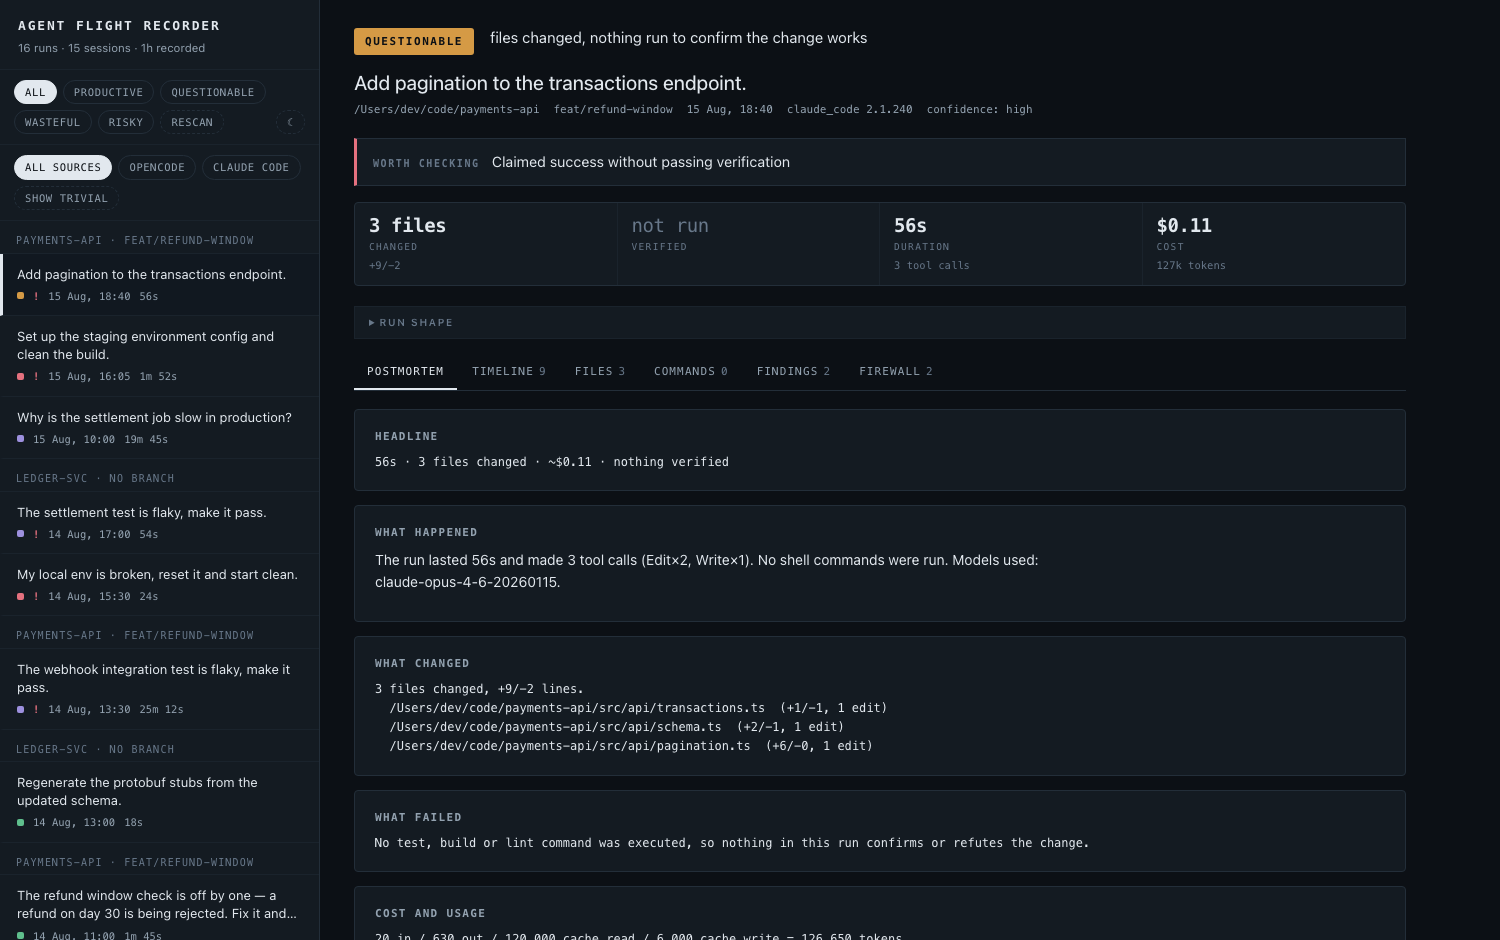
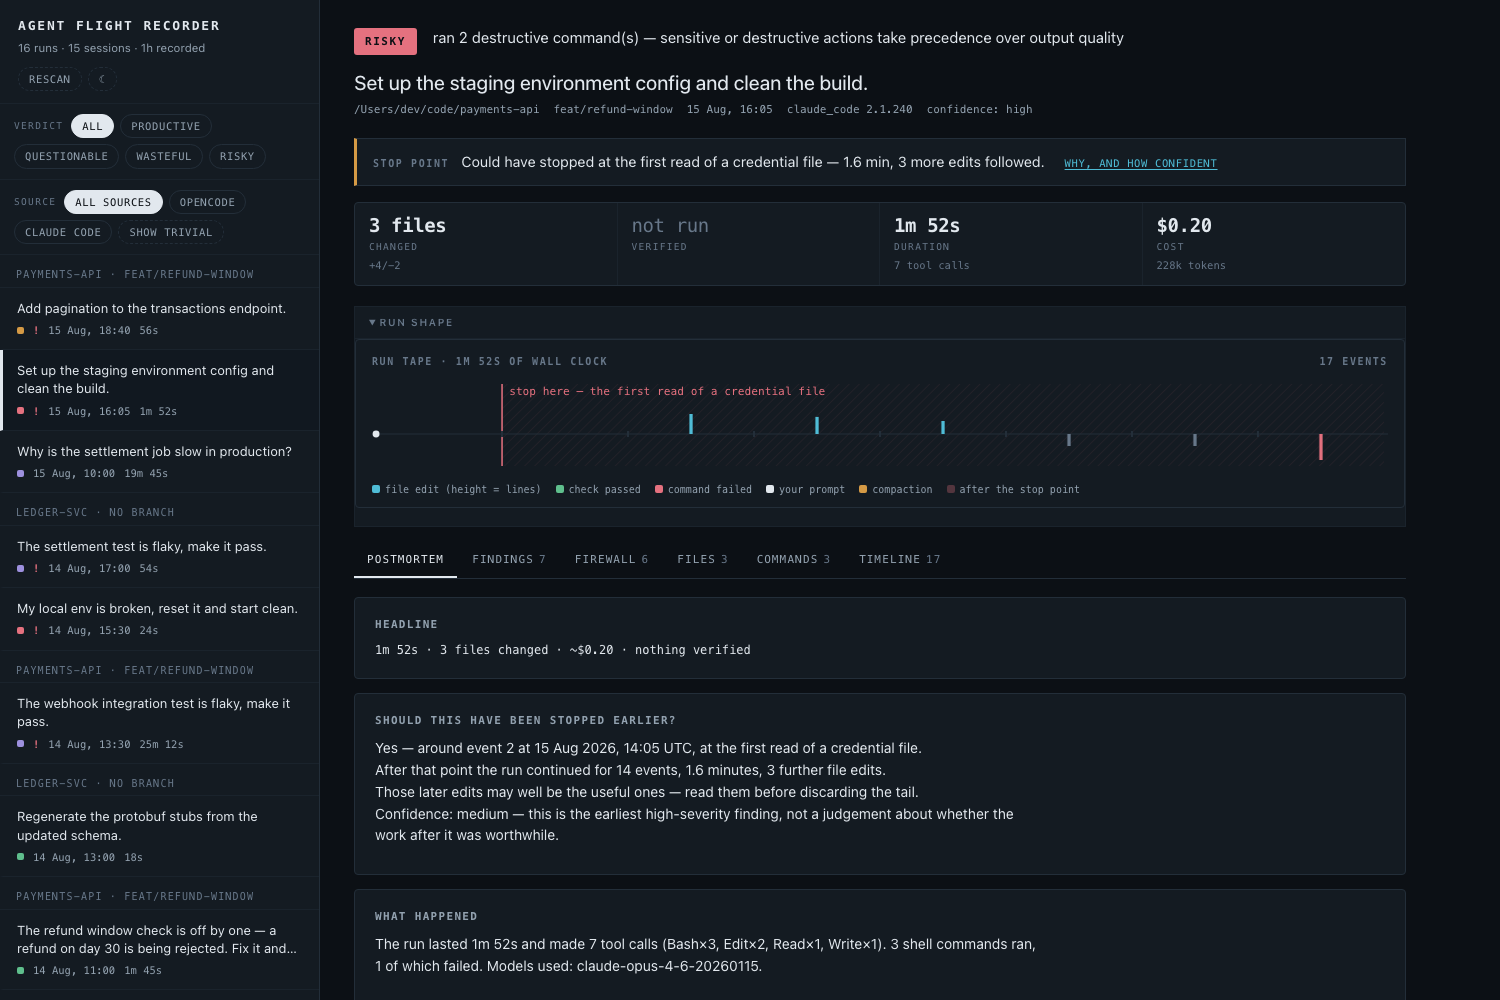
Link to a run by URL, refresh the screenshot, make the changelog honest
Deep-linking: the dashboard auto-selected the newest run with no way to target a
specific one. A `#run=<id>` fragment now wins over that default, set with
replaceState rather than a hash assignment so clicking through runs does not fill
the back button with them. Worth having regardless of the screenshot -- a
forensics tool wants a link you can paste into an issue.

The README screenshot predated both UX commits and contradicted the product in
five visible ways: old tab order, collapsed tape, rescan among the verdict chips,
absolute paths repeated in what-changed, and no stop-point card. Replaced, using
the new deep link to capture a risky run so the tape, the stop point and the
proposed guardrails are actually exercised rather than a near-empty run.

The changelog claimed 62 lines were unreleased while 0.1.0 was dated and
described as shipped -- but 0.1.0 has never been published, so the split was
fiction and tagging would have shipped those changes while calling them pending.
Folded into one 0.1.0 with the work found by corpus validation kept as its own
section, since "none of this was visible to a passing test suite" is worth a
reader seeing.

Claude-Session: https://claude.ai/code/session_01DSrNHzrFJ7KStvHYPz7KVd

diff --git a/test/dashboard.test.ts b/test/dashboard.test.ts
@@ -38,6 +38,7 @@ interface Renderers {
   cmdCell: (cmd: string) => string;
   relPath: (p: string, project: string | null) => string;
   evidenceText: (excerpt: string, project: string | null) => string;
+  runFromHash: (hash?: string) => string | null;
   tape: (t: unknown, a: unknown) => string;
   stats: (t: unknown, a: unknown, m: unknown) => string;
   timeline: (d: unknown) => string;
@@ -118,7 +119,7 @@ function loadRenderers(): Renderers {
     "document",
     `return (function(){${script}
       return {tape,stats,timeline,files,commands,findings,firewall,postmortem,
-              cmdCell,relPath,evidenceText};})()`,
+              cmdCell,relPath,evidenceText,runFromHash};})()`,
   ) as (d: unknown) => Renderers;
   return factory(doc);
 }
@@ -379,5 +380,36 @@ describe("files and commands connect to the findings", () => {
     assert.match(out, /t-secret[^>]*>destructive/);
     // The denied command outranks the passing test, so it appears first.
     assert.ok(out.indexOf("rm -rf /") < out.indexOf("npm test"), "attention-first ordering");
+  });
+});
+
+describe("linking to a run", () => {
+  const R = loadRenderers();
+
+  it("reads a run id out of the fragment", () => {
+    assert.equal(R.runFromHash("#run=cl-0ba5c9137399"), "cl-0ba5c9137399");
+    assert.equal(R.runFromHash("#foo=1&run=op-abc123def456"), "op-abc123def456");
+  });
+
+  it("returns null when there is no run in the fragment", () => {
+    for (const h of ["", "#", "#tab=files", "#runx=abc"]) {
+      assert.equal(R.runFromHash(h), null, `no run id in ${JSON.stringify(h)}`);
+    }
+  });
+
+  it("never yields a value that could be read as a path or markup", () => {
+    // The parsed value is only ever compared against run ids the server already
+    // sent, and an unknown id falls back to the newest run — so this is defence
+    // in depth rather than the actual guard. The charset is what it guarantees:
+    // no separators, no angle brackets, no quotes.
+    for (const h of ["#run=../../etc/passwd", "#run=<script>", '#run="onerror=', "#run=a/b"]) {
+      const got = R.runFromHash(h);
+      if (got === null) continue;
+      assert.doesNotMatch(got, /[/\\<>"'&?#]/, `unsafe characters survived from ${h}`);
+    }
+  });
+
+  it("does not treat an unrelated fragment as a run", () => {
+    assert.equal(R.runFromHash("#run="), null, "an empty value is not an id");
   });
 });

diff --git a/src/web/index.html b/src/web/index.html
@@ -324,7 +324,12 @@ async function loadRuns(){
     + (hidden ? ` · ${hidden} trivial hidden` : "");
   renderSourceChips();
   renderRail();
-  if (!CURRENT && RUNS.length) selectRun(RUNS[0].run_id);
+  // A `#run=<id>` fragment wins over the newest-run default, so a link to a
+  // specific run survives being pasted into a bug report or an issue.
+  if (!CURRENT && RUNS.length){
+    const wanted = runFromHash();
+    selectRun(RUNS.some(r => r.run_id === wanted) ? wanted : RUNS[0].run_id);
+  }
   if (!RUNS.length) $("#detail").innerHTML = emptyState();
 }
 
@@ -430,8 +435,25 @@ $("#rescan").onclick = async e => {
 };
 
 /* ---------------- run detail ---------------- */
+/**
+ * The run id in the URL fragment, if there is one.
+ *
+ * Takes the hash as an argument so it is testable: this script is also evaluated
+ * outside a browser by test/dashboard.test.ts, where `location` does not exist.
+ */
+function runFromHash(hash){
+  const h = hash !== undefined ? hash
+    : (typeof location === "undefined" ? "" : location.hash);
+  const m = /(?:^|[#&])run=([A-Za-z0-9._-]+)/.exec(h || "");
+  return m ? m[1] : null;
+}
+
 async function selectRun(id){
   CURRENT = id;
+  // replaceState, not a hash assignment: writing location.hash pushes a history
+  // entry per click, so the back button would walk the runs you looked at
+  // instead of leaving the page.
+  try { history.replaceState(null, "", "#run=" + id); } catch (e) {}
   renderRail();
   const d = await api("/api/runs/" + id);
   renderRun(d);

diff --git a/CHANGELOG.md b/CHANGELOG.md
@@ -12,66 +12,7 @@ with one project-specific rule worth stating up front:
 
 ## [Unreleased]
 
-### Changed
-
-- **The detail pane reads as a drill-down.** Tab order is now Postmortem ·
-  Findings · Firewall · Files · Commands · Timeline — synthesis, then specifics,
-  then remedy, then evidence in increasing granularity. Findings and Firewall
-  were previously fifth and sixth.
-- **The run tape is expanded by default**, reversing an earlier decision — see
-  `docs/DECISIONS.md`.
-- Paths are grouped and shown relative to the project root in `what changed`,
-  the Files tab and finding evidence. Files that escape the project keep their
-  absolute form, since that is the notable case.
-- Files and Commands mark the rows a finding actually named — sensitive and
-  config files, denied and destructive commands — so the evidence connects to the
-  verdict instead of just listing rows.
-- Commands are ordered by what needs attention (denied, failed, destructive)
-  rather than chronologically; the Timeline tab remains chronological.
-- Long commands are truncated from the *middle*, never the tail, with the full
-  text one click away. The tail is where `--force`, `| sh` and `> file` live.
-- `rescan` and the theme toggle moved out of the verdict filter row, which now
-  carries explicit `verdict` and `source` labels.
-
-### Fixed
-
-- **A verification tail is no longer called waste.** The stop-point narrative
-  claimed "nothing changed on disk, so the tail was pure overhead" even when the
-  tail was entirely tests — while printing the check count one line above.
-- The stop point now states a confidence level; previously it offered none, which
-  invited a heuristic to be read as a certainty.
-- Stop-point timestamps are formatted rather than raw ISO strings, in the
-  dashboard and in `flightrec report` alike. Fixed to UTC, because a
-  locale-dependent rendering would make stored markdown differ between machines.
-
-### Added
-
-- `flightrec corpus` — audits a whole store: verdict distribution, per-detector
-  fire counts, verification status, command-outcome knowledge split by source,
-  every path flagged as sensitive, and a redaction self-check. `--json` for
-  machine-readable output. This is the tooling behind the corpus check that
-  `CONTRIBUTING.md` requires for detector changes.
-- `detectorOf()` in `src/model.ts` — the stable detector name behind an
-  instance-scoped finding id, so fire counts can be grouped across runs.
-
-### Fixed
-
-- **Redaction covered tool output but not tool input.** A credential the agent
-  wrote into a file was stored verbatim in the Edit call's `new_string` — the
-  exact case `risk.secret_file_write` exists to flag. Tool input is now scrubbed
-  too, with structure preserved.
-- **`Authorization: Bearer <token>` leaked its token.** The generic
-  credential-named-variable rule ran first and matched the *word* `Bearer` as a
-  six-character value, rewriting the line and destroying the prefix the bearer
-  rule needed. Precise rules now run before the catch-all, and auth scheme words
-  are never treated as secrets.
-- Secret-path detection no longer flags committed env templates
-  (`.env.example`) or directories named `secrets/`. On a 484-run corpus that
-  removed 36 of 41 false hits and 10 incorrect `risky` verdicts.
-- `verify.unbacked_claim` evidence now quotes the matched claim rather than the
-  first 220 characters of the message.
-
-## [0.1.0] - 2026-08-16
+## [0.1.0] - 2026-08-17
 
 First public release.
 
@@ -110,7 +51,71 @@ First public release.
   `number | null` for cost mean *unknown*, handled distinctly from `false` and
   `0`. Neither agent records exit codes, so check outcomes are parsed from
   runner output instead.
-- CLI: `ingest`, `list`, `report`, `serve`, `stats`, `demo`.
+- CLI: `ingest`, `list`, `report`, `serve`, `stats`, `demo`, `corpus`.
+- **`flightrec corpus`** — audits a whole store in one command: verdict
+  distribution, per-detector fire counts, verification status, command-outcome
+  knowledge split by source, every path flagged as sensitive, and a redaction
+  self-check that scans for credential shapes which escaped masking. `--json` for
+  machine-readable output. This is the tooling behind the corpus check that
+  `CONTRIBUTING.md` requires for any detector change.
+- Every run has its own URL in the dashboard (`#run=<id>`), so a specific run can
+  be linked in an issue or handed to a colleague.
+
+### Changed during pre-release review
+
+These landed after the first draft of this file and before anything was
+published, so they are part of 0.1.0 rather than a later version. Kept as their
+own section because they are the result of using the tool against a real corpus,
+which is worth being visible.
+
+- **The detail pane reads as a drill-down.** Tab order is now Postmortem ·
+  Findings · Firewall · Files · Commands · Timeline — synthesis, then specifics,
+  then remedy, then evidence in increasing granularity. Findings and Firewall
+  were previously fifth and sixth.
+- **The run tape is expanded by default**, reversing an earlier decision — see
+  `docs/DECISIONS.md`.
+- Paths are grouped and shown relative to the project root in `what changed`,
+  the Files tab and finding evidence. Files that escape the project keep their
+  absolute form, since that is the notable case.
+- Files and Commands mark the rows a finding actually named — sensitive and
+  config files, denied and destructive commands — so the evidence connects to the
+  verdict instead of just listing rows.
+- Commands are ordered by what needs attention (denied, failed, destructive)
+  rather than chronologically; the Timeline tab remains chronological.
+- Long commands are truncated from the *middle*, never the tail, with the full
+  text one click away. The tail is where `--force`, `| sh` and `> file` live.
+- `rescan` and the theme toggle moved out of the verdict filter row, which now
+  carries explicit `verdict` and `source` labels.
+
+- **A verification tail is no longer called waste.** The stop-point narrative
+  claimed "nothing changed on disk, so the tail was pure overhead" even when the
+  tail was entirely tests — while printing the check count one line above.
+- The stop point now states a confidence level; previously it offered none, which
+  invited a heuristic to be read as a certainty.
+- Stop-point timestamps are formatted rather than raw ISO strings, in the
+  dashboard and in `flightrec report` alike. Fixed to UTC, because a
+  locale-dependent rendering would make stored markdown differ between machines.
+
+### Found and fixed by validating against a real corpus
+
+Every item here was found by running the tool over 484 real runs and checking
+what fired in both directions. None were visible to the test suite, which was
+passing throughout. `docs/DECISIONS.md` records the pattern.
+
+- **Redaction covered tool output but not tool input.** A credential the agent
+  wrote into a file was stored verbatim in the Edit call's `new_string` — the
+  exact case `risk.secret_file_write` exists to flag. Tool input is now scrubbed
+  too, with structure preserved.
+- **`Authorization: Bearer <token>` leaked its token.** The generic
+  credential-named-variable rule ran first and matched the *word* `Bearer` as a
+  six-character value, rewriting the line and destroying the prefix the bearer
+  rule needed. Precise rules now run before the catch-all, and auth scheme words
+  are never treated as secrets.
+- Secret-path detection no longer flags committed env templates
+  (`.env.example`) or directories named `secrets/`. On a 484-run corpus that
+  removed 36 of 41 false hits and 10 incorrect `risky` verdicts.
+- `verify.unbacked_claim` evidence now quotes the matched claim rather than the
+  first 220 characters of the message.
 
 ### Notes
 

diff --git a/README.md b/README.md
@@ -22,11 +22,13 @@ npx @spiatrenka/agent-flight-recorder serve   # dashboard at http://127.0.0.1:87
 dependencies. The only network code in the project is a server that refuses to bind anything
 but loopback.
 
-![The dashboard: a run list on the left, and a graded postmortem on the right showing the verdict,
-the one thing worth checking, and what the run changed.](docs/media/dashboard.png)
+![The dashboard. A run graded risky, with the point it should have been stopped named in the lede,
+the run tape showing everything after that point hatched out, and seven findings with six proposed
+guardrails behind the tabs.](docs/media/dashboard.png)
 
 *Synthetic demo data — `flightrec demo` produces exactly this, so you can try the dashboard before
-pointing it at your own history.*
+pointing it at your own history. Every run has its own URL (`#run=<id>`), so you can link a
+teammate straight to the one you are asking about.*
 
 Why this exists, and what it deliberately isn't: [`docs/ANALYSIS.md`](docs/ANALYSIS.md).
 Decisions worth not re-litigating: [`docs/DECISIONS.md`](docs/DECISIONS.md).
